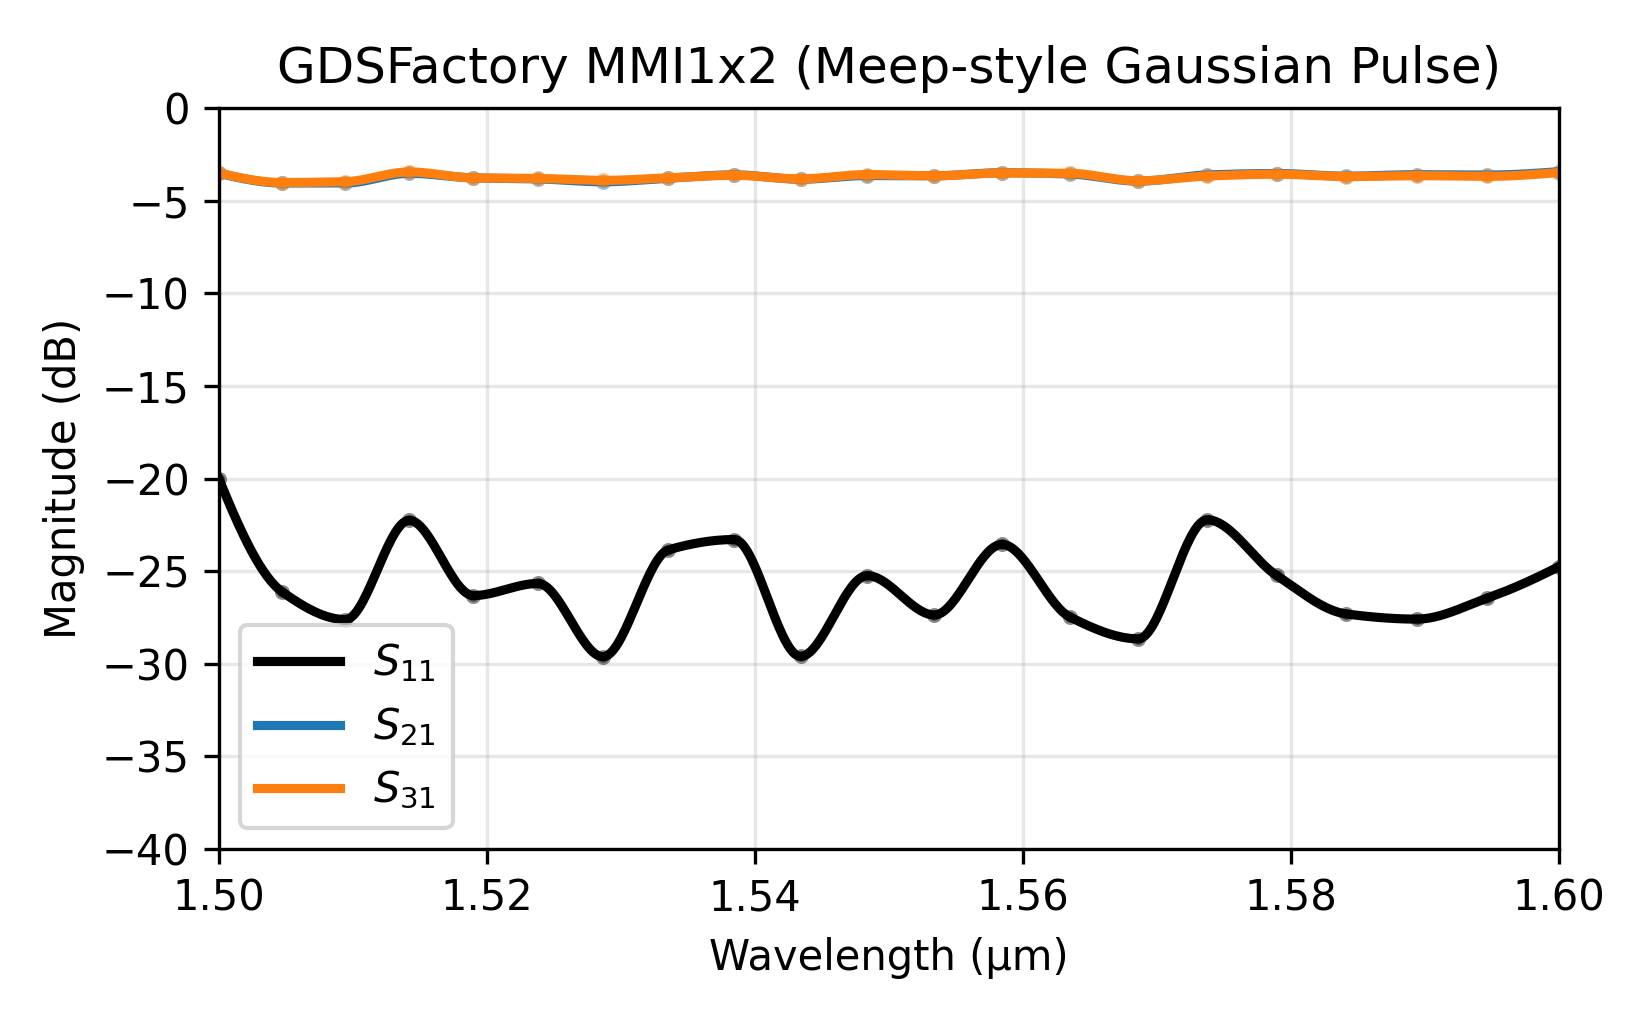
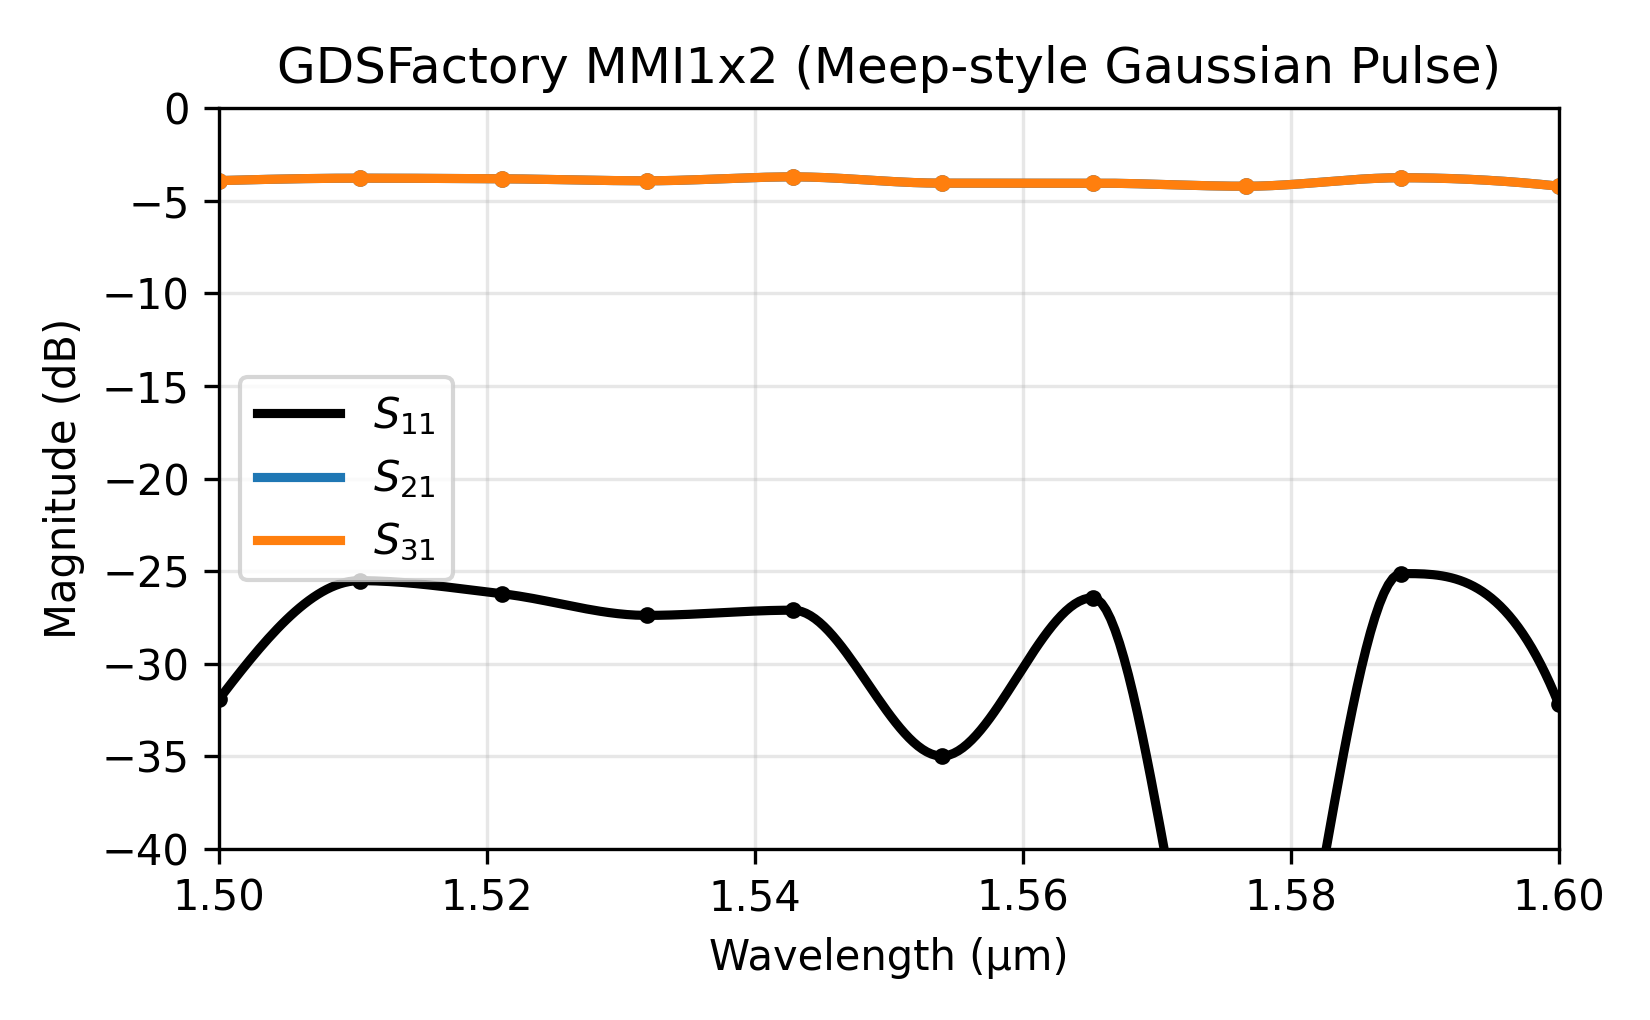
Update PPW.

diff --git a/examples/gdsf_to_sax_meep_style.py b/examples/gdsf_to_sax_meep_style.py
@@ -22,7 +22,7 @@ WL0 = 1.55 * µm
 WL_MIN, WL_MAX = 1.50 * µm, 1.60 * µm
 WL_POINTS = int(os.getenv("BEAMZ_SWEEP_POINTS", "21"))
 N_CORE, N_CLAD = 3.48, 1.44
-POINTS_PER_WAVELENGTH = int(os.getenv("BEAMZ_PPW", "8"))
+POINTS_PER_WAVELENGTH = int(os.getenv("BEAMZ_PPW", "10"))
 DX, DT = dxdt(WL0, n_max=N_CORE, points_per_wavelength=POINTS_PER_WAVELENGTH, dims=2)
 INPUT_EXTENSION, OUTPUT_EXTENSION, Y_MARGIN = 4.0 * µm, 4.0 * µm, 3.0 * µm
 PML_BASE, PML_RIGHT = 1.0 * WL0, 1.5 * WL0
